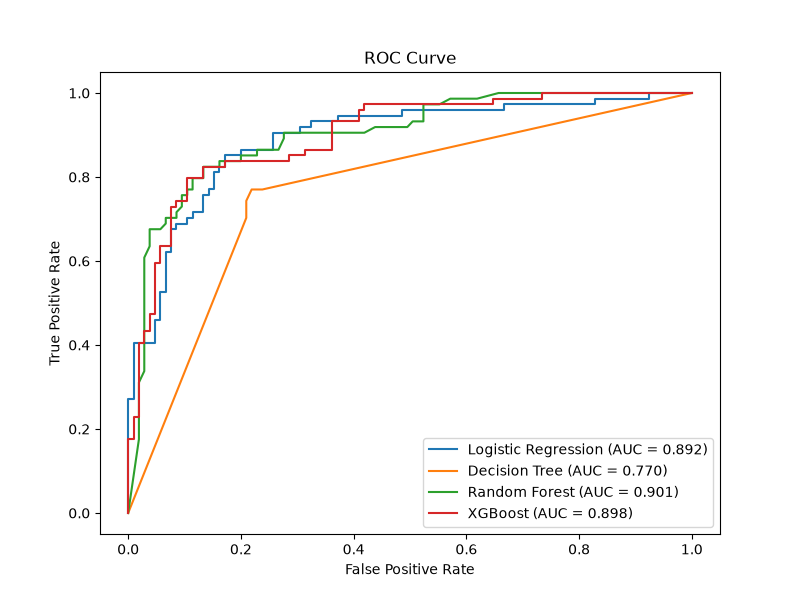
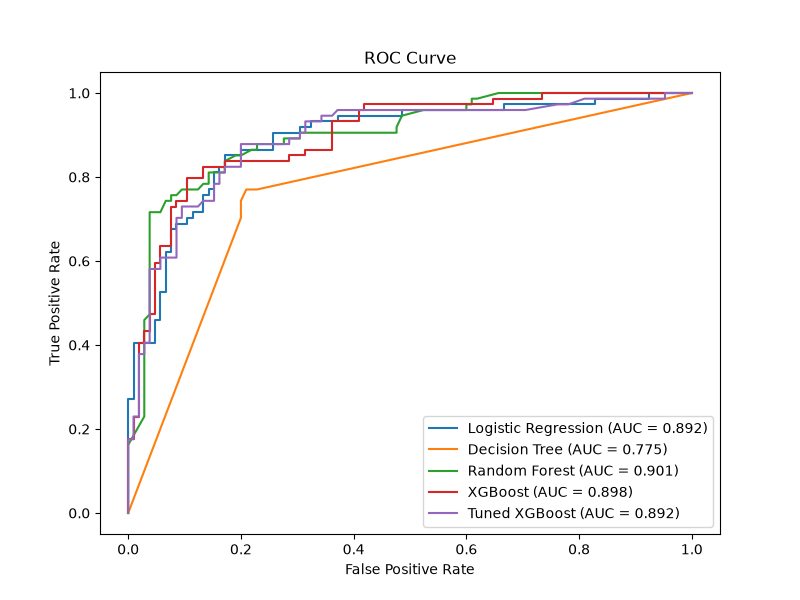
finetune xgboost and compare it with the best default model based on AUC score from Cv

diff --git a/src/train.py b/src/train.py
@@ -5,8 +5,9 @@ from sklearn.pipeline import Pipeline
 from sklearn.linear_model import LogisticRegression
 from sklearn.tree import DecisionTreeClassifier
 from sklearn.ensemble import RandomForestClassifier
-from sklearn.model_selection import cross_val_score, train_test_split
+from sklearn.model_selection import cross_val_score, train_test_split, GridSearchCV
 from xgboost import XGBClassifier
+
 from src.pipeline import build_pipeline
 from src.evaluate import plot_confusion_matrix, plot_roc_curves
 
@@ -50,7 +51,19 @@ def train_and_evaluate(
         models: dict,
         X_train: pd.DataFrame,
         y_train: pd.Series,
-) -> Pipeline:
+) -> tuple[Pipeline, float] :
+    """
+    Evaluates multiple baseline models using 5-fold cross-validation 
+    with ROC-AUC scoring, and returns the best-performing pipeline.
+
+    Args:
+        models: Dictionary mapping model names to instantiated sklearn classifiers.
+        X_train: Training features DataFrame.
+        y_train: Training target labels Series.
+
+    Returns:
+        tuple[Pipeline, float]: Best-performing sklearn Pipeline and its mean CV AUC score.
+    """
     best_auc = 0.0
     best_pipeline = None
 
@@ -68,20 +81,74 @@ def train_and_evaluate(
             best_auc = auc_scores.mean()
             best_pipeline = pipeline
             
-    return best_pipeline
+    return best_pipeline, best_auc
+
+
+def find_best_xgboost_pipeline(xgboost: XGBClassifier, X_train: pd.DataFrame, y_train: pd.Series) -> tuple[Pipeline, float]:
+    """
+    Performs grid search with 5-fold cross-validation over XGBoost hyperparameters
+    using ROC-AUC scoring, and returns the best-fitted pipeline.
+
+    Args:
+        xgboost: Instantiated XGBClassifier to be tuned.
+        X_train: Training features DataFrame.
+        y_train: Training target labels Series.
+
+    Returns:
+        tuple[Pipeline, float]: Best-fitted sklearn Pipeline refitted on the entire 
+            training set, and its CV AUC score from GridSearchCV.
+    """
+    # we have 3*3*3 = 27 possible combinations
+    # we need a prefix so GridSearchCV knows at which steps apply the parameters
+    parameters = {
+        "classifier__n_estimators": [100, 300, 500],
+        "classifier__max_depth": [3, 4, 5],
+        "classifier__learning_rate": [0.01, 0.05, 0.1]
+    }
+
+    pipeline = build_pipeline(model=xgboost)
+
+    grid_cv = GridSearchCV(
+        estimator=pipeline,
+        param_grid=parameters,
+        scoring="roc_auc",
+        cv=5,       # 5 folds, 4 for training, 1 for validating
+        n_jobs=-1   # use all available CPU cores to train models in parallel
+    )
+
+    # train all possible 27 models and return the best one
+    grid_cv.fit(X=X_train, y=y_train)
+
+    print(f"Best params: {grid_cv.best_params_}")
+    print(f"Best AUC: {grid_cv.best_score_:.4f}")
+
+    return grid_cv.best_estimator_, grid_cv.best_score_
 
 
 if __name__ == "__main__":
     X, y = load_data(path=PATH_TO_CSV_FILE)
     X_train, X_val, y_train, y_val = train_test_split(X, y, test_size=0.2, random_state=42)
+    best_pipeline = None
+    best_auc = 0.0
 
     models = get_models()
-    best_pipeline = train_and_evaluate(models=models, X_train=X_train, y_train=y_train)
+    best_default, default_auc = train_and_evaluate(models=models, X_train=X_train, y_train=y_train)
+    best_xgboost, xgboost_auc = find_best_xgboost_pipeline(xgboost=XGBClassifier(), X_train=X_train, y_train=y_train)
 
-    # refit best model on full training data, then evaluate once on unseen test set
-    best_pipeline.fit(X_train, y_train)
-    final_score = best_pipeline.score(X_val, y_val)
-    print(f"Final score: {final_score:.4f}")
+    if xgboost_auc > default_auc:
+        best_pipeline = best_xgboost
+        best_auc = xgboost_auc
+        print("XGBoost classifier won!")
+    else:
+        best_pipeline = best_default
+        best_auc = default_auc
+        print(f"{best_pipeline.named_steps['classifier'].__class__.__name__} won!")
+
+    print(f"Best AUC: {best_auc}")
+    print(f"Final score: {best_pipeline.score(X=X_val, y=y_val)}")
+
+    # add finetuned xgboost classifier to our models to have it on plot as well
+    models["Tuned XGBoost"] = best_xgboost.named_steps["classifier"]
 
     plot_roc_curves(models=models, X_train=X_train, X_val=X_val, y_train=y_train, y_val=y_val)
     plot_confusion_matrix(best_pipeline=best_pipeline, X_val=X_val, y_val=y_val)
